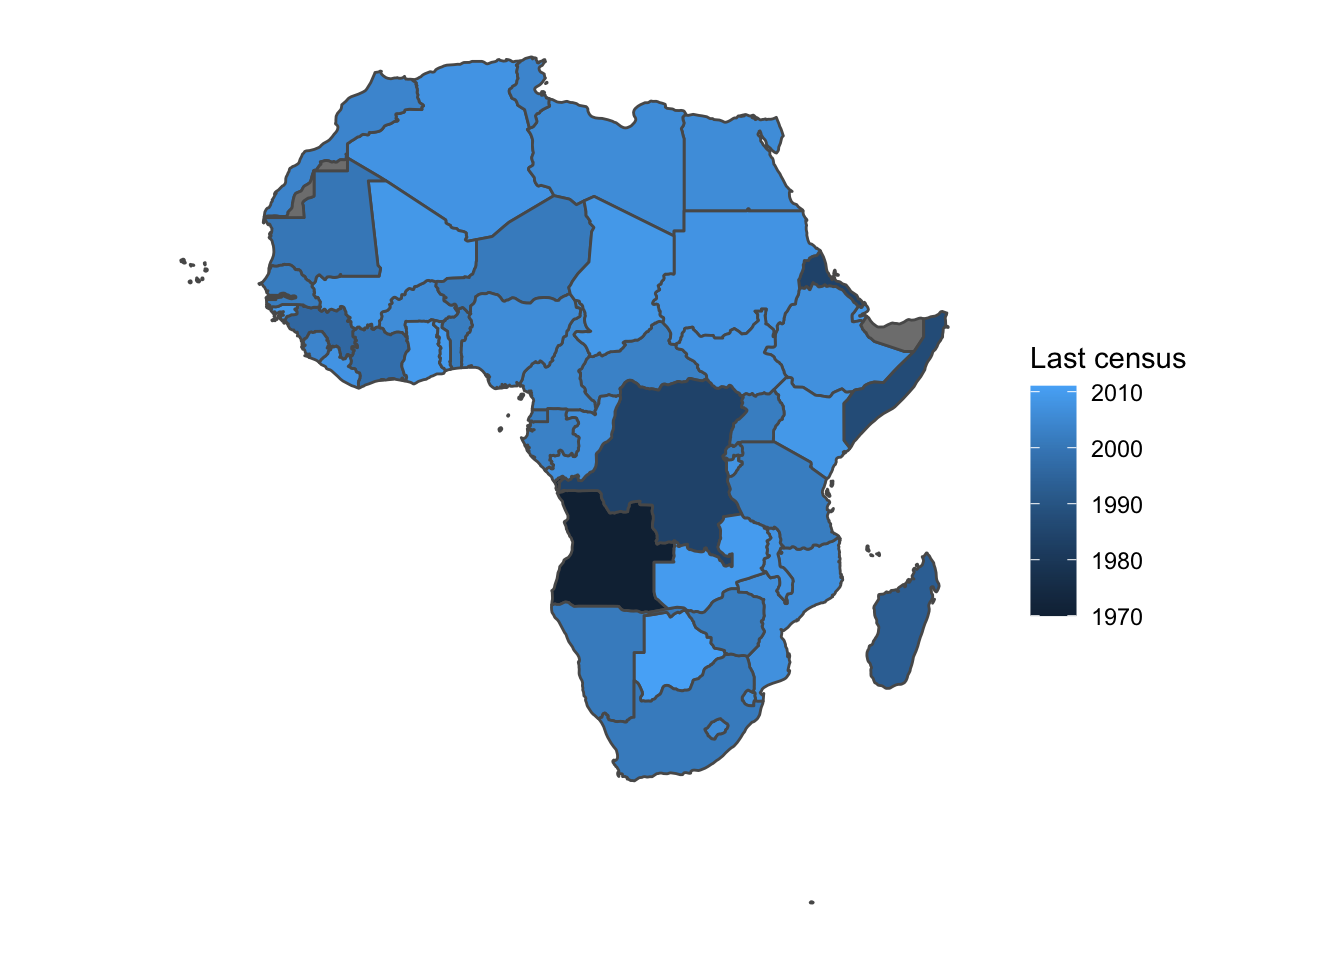
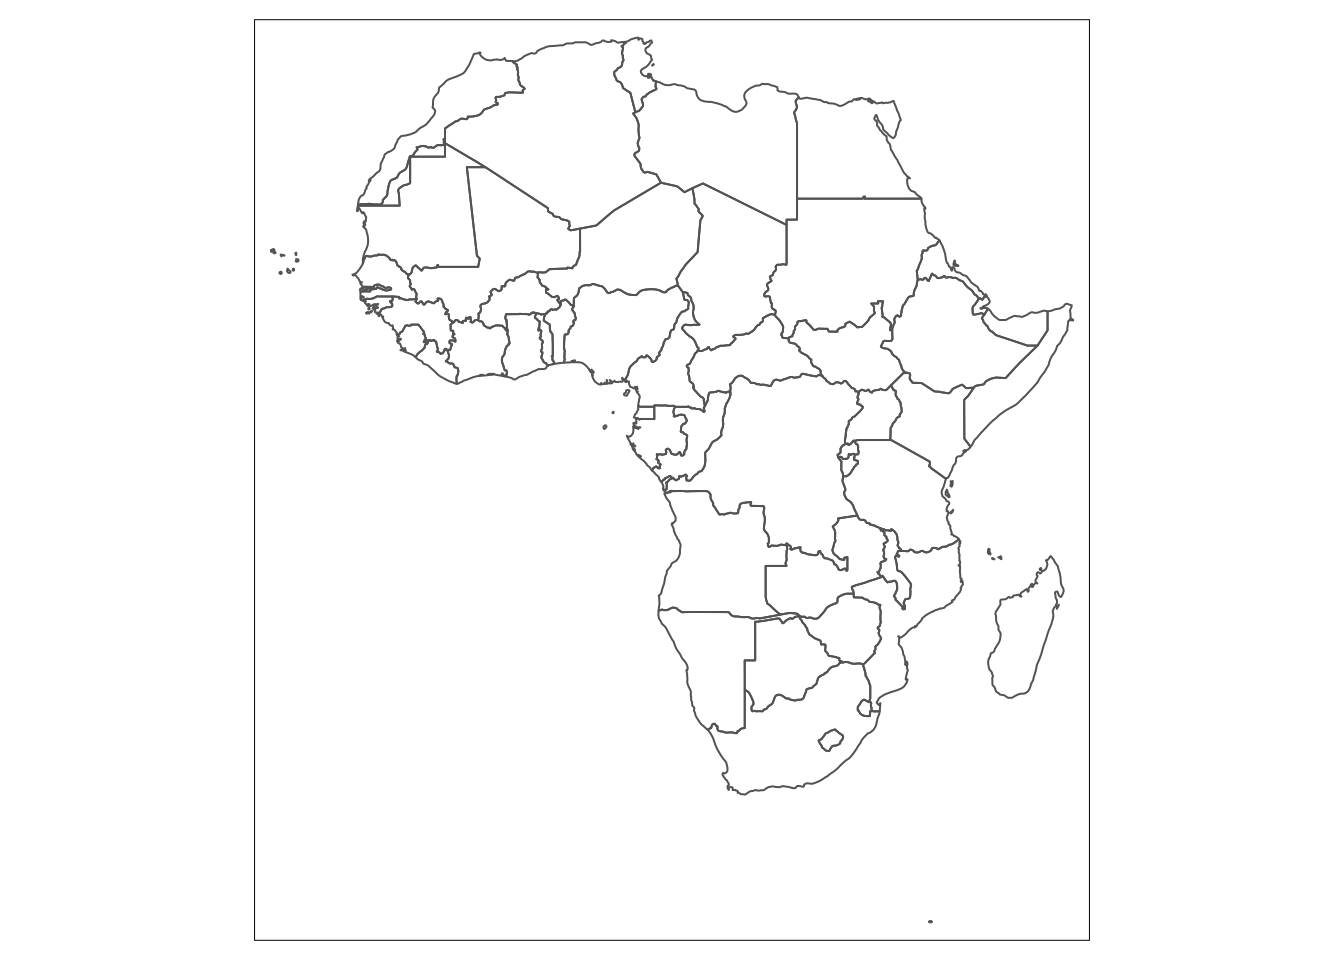
Deploy from Github Actions build 427937706 [ci skip]
Build URL: https://github.com/afrimapr/afrimapr-book/actions/runs/427937706
Commit: de0e9f8cc4a43c4dcd2d22b05b1114c28c8a55f5

diff --git a/visualising-1.html b/visualising-1.html
@@ -238,12 +238,9 @@ div.blue { background-color:#e6f0ff; border-radius: 5px; padding: 20px;}
 </div>
 <div id="static-maps" class="section level3">
 <h3><span class="header-section-number">5.1.2</span> Static maps</h3>
-<p>Map with colour fill based on the continuous variable</p>
-<div class="sourceCode" id="cb7"><pre class="sourceCode r"><code class="sourceCode r"><span id="cb7-1"><a href="visualising-1.html#cb7-1"></a><span class="kw">ggplot</span>(africa) <span class="op">+</span><span class="st"> </span></span>
-<span id="cb7-2"><a href="visualising-1.html#cb7-2"></a><span class="st">  </span><span class="kw">geom_sf</span>(<span class="kw">aes</span>(<span class="dt">fill=</span>lastcensus)) <span class="op">+</span><span class="st"> </span></span>
-<span id="cb7-3"><a href="visualising-1.html#cb7-3"></a><span class="st">  </span><span class="kw">coord_sf</span>(<span class="dt">datum =</span> <span class="ot">NA</span>) <span class="op">+</span><span class="st"> </span></span>
-<span id="cb7-4"><a href="visualising-1.html#cb7-4"></a><span class="st">  </span><span class="kw">labs</span>(<span class="dt">fill =</span> <span class="st">&quot;Last census&quot;</span>) <span class="op">+</span></span>
-<span id="cb7-5"><a href="visualising-1.html#cb7-5"></a><span class="st">  </span><span class="kw">theme_minimal</span>()</span></code></pre></div>
+<p>Create an empty contour map of the continent</p>
+<div class="sourceCode" id="cb7"><pre class="sourceCode r"><code class="sourceCode r"><span id="cb7-1"><a href="visualising-1.html#cb7-1"></a><span class="kw">tm_shape</span>(africa)<span class="op">+</span></span>
+<span id="cb7-2"><a href="visualising-1.html#cb7-2"></a><span class="st">  </span><span class="kw">tm_borders</span>()</span></code></pre></div>
 <p><img src="bookdown-demo_files/figure-html/unnamed-chunk-7-1.png" width="672" /></p>
 <p>Crate a categorical variable</p>
 <div class="sourceCode" id="cb8"><pre class="sourceCode r"><code class="sourceCode r"><span id="cb8-1"><a href="visualising-1.html#cb8-1"></a>africa &lt;-<span class="st"> </span>africa <span class="op">%&gt;%</span></span>

diff --git a/preface.html b/preface.html
@@ -215,7 +215,7 @@ code span.wa { color: #60a0b0; font-weight: bold; font-style: italic; } /* Warni
 </ol>
 <p>The version of the book you are currently reading was last updated at:</p>
 <div class="sourceCode" id="cb1"><pre class="sourceCode r"><code class="sourceCode r"><span id="cb1-1"><a href="preface.html#cb1-1"></a><span class="kw">Sys.time</span>()</span></code></pre></div>
-<pre><code>## [1] &quot;2020-12-17 11:14:06 UTC&quot;</code></pre>
+<pre><code>## [1] &quot;2020-12-17 11:23:23 UTC&quot;</code></pre>
 <div class="figure">
 <img src="https://github.com/afrimapr/book/workflows/tic/badge.svg" alt="" />
 <p class="caption">Continuous integration (built on GitHub)</p>
